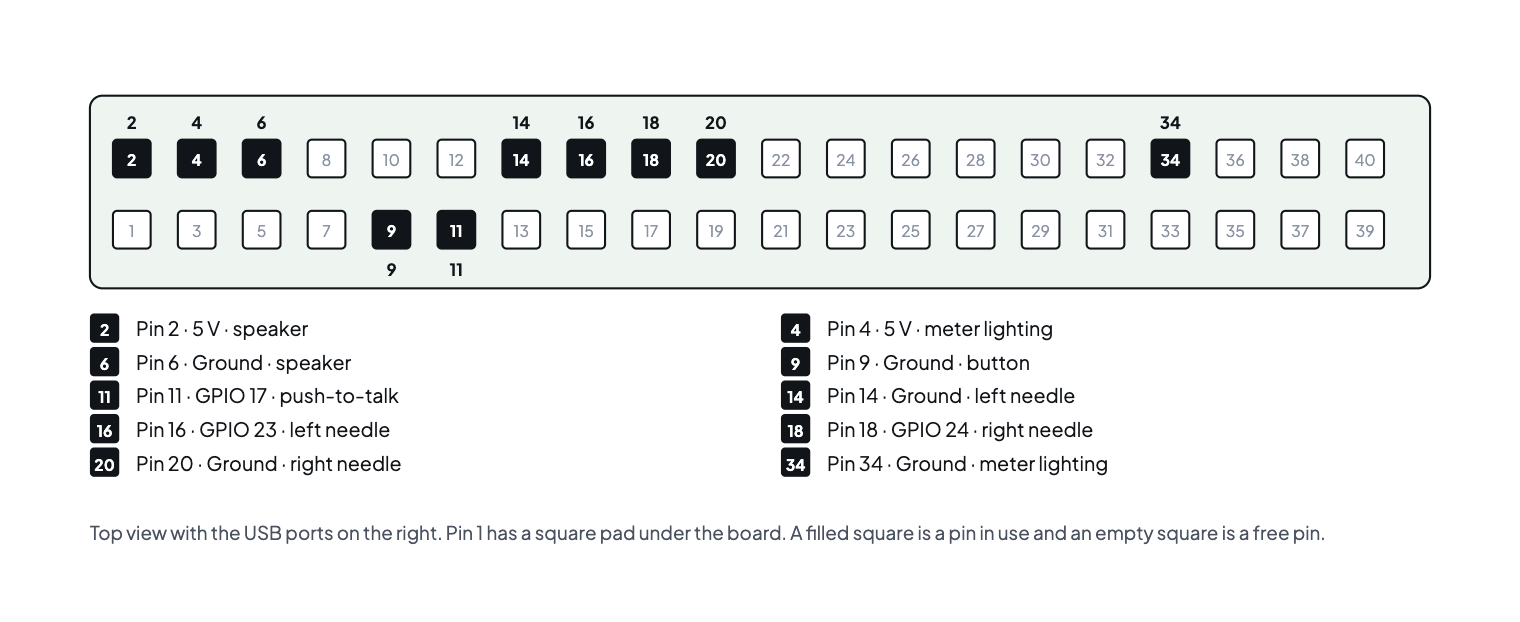
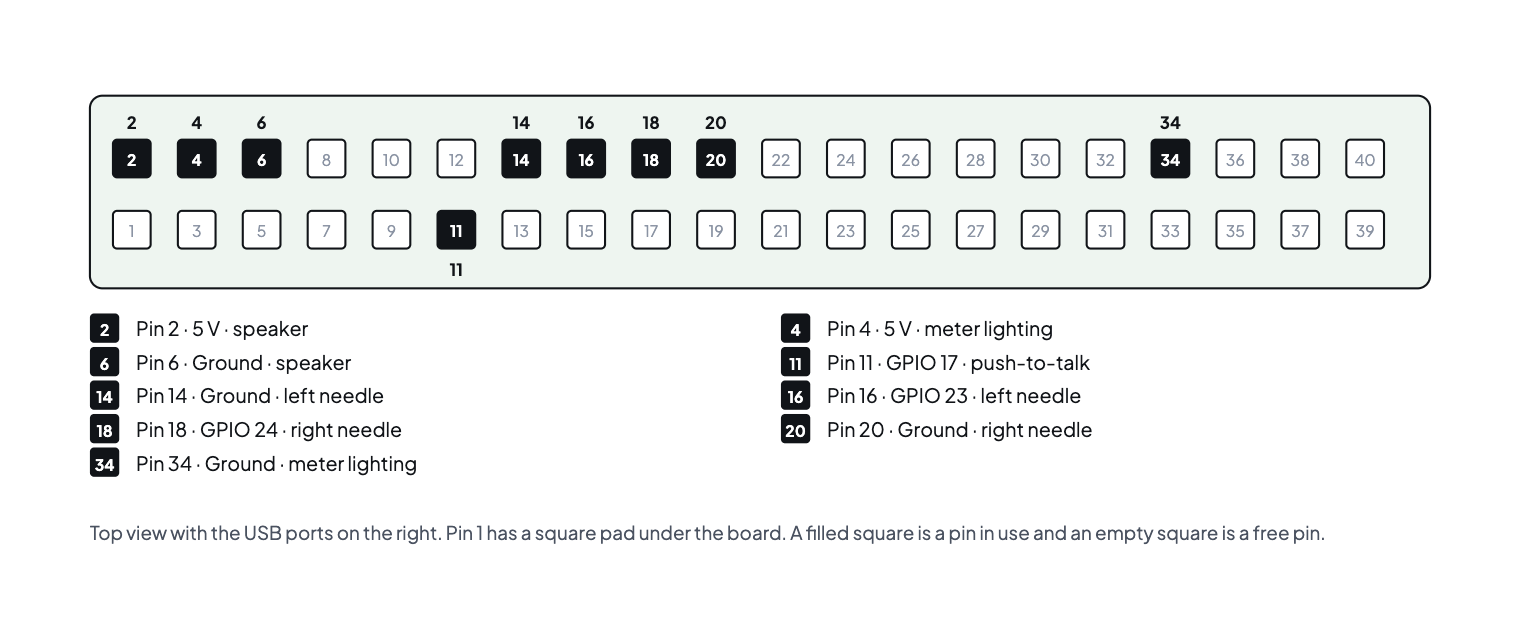
Simpler microphone wiring: one lever connector, no multimeter
Pins 1 and 2 of the socket go under two screws of A18. Pin 3 goes
through one lever connector to a jumper wire on Pi pin 11, and pin 4 is
cut short. The button takes its ground through the sound adapter, so
pin 9 is no longer used. The step card has five steps, and the builder
needs only scissors and the screwdriver that comes with A18.

diff --git a/docs/PARTS-BOM.md b/docs/PARTS-BOM.md
@@ -149,7 +149,7 @@ One sheet for each part, in the order of the list.
 
 | | |
 |---|---|
-| <img src="images/parts/a16-microphone-socket.jpg" width="200" alt="GX16 4-pin socket with its wires attached"> | The socket on the face that the microphone A15 plugs into. It comes with four wires already attached at its back, so nothing is soldered. The wires go to the plug A18 and, through the lever connectors A22, to the Pi.<br><br>**Quantity:** ×1<br>**In version 1.0:** planned<br>**Reference:** GX16, 4 Pin Male-Open, on Amazon B0CWF1H262. I have not ordered it yet.<br>**Connects:** Its wire from pin 2 goes under a screw of A18, direct. Its wires from pins 1 and 3 each go into a lever connector A22, which joins them to A19 wires for pins 9 and 11 of the Pi. Pin 1 also goes on to A18 through a short wire. Its pin 4 wire goes alone into a third A22.<br>**Pins:** 4, male, 16 mm round body with a nut<br>**Wires:** 4 wires of 20 AWG, 20 cm, attached and sealed at the back<br>**Fit:** Sellers list the GX16 4-pin as the CB microphone connector. I have not tried it with the BC645 yet: plug the microphone in before you mount the socket.<br>**Colours:** The listing does not say which colour goes to which pin. Find out with a multimeter set to continuity, one probe on a pin and the other on each wire.<br>**Hole:** 16 mm. The face has a 16.2 mm hole for it. |
+| <img src="images/parts/a16-microphone-socket.jpg" width="200" alt="GX16 4-pin socket with its wires attached"> | The socket on the face that the microphone A15 plugs into. It comes with four wires already attached at its back, so nothing is soldered. Pins 1 and 2 go under the screws of the plug A18. Pin 3 goes to the Pi through a lever connector A22. Pin 4 is not used.<br><br>**Quantity:** ×1<br>**In version 1.0:** planned<br>**Reference:** GX16, 4 Pin Male-Open, on Amazon B0CWF1H262. I have not ordered it yet.<br>**Connects:** Pin 1 wire: under screw G of A18, direct. Pin 2 wire: under screw M of A18, direct. Pin 3 wire: into a lever connector A22, then an A19 wire to pin 11 of the Pi. Pin 4 wire: cut short, not used.<br>**Pins:** 4, male, 16 mm round body with a nut<br>**Wires:** 4 wires of 20 AWG, 20 cm, attached and sealed at the back<br>**Fit:** Sellers list the GX16 4-pin as the CB microphone connector. I have not tried it with the BC645 yet: plug the microphone in before you mount the socket.<br>**Colours:** The listing does not say which colour goes to which pin. I check it on my socket when it arrives and write it here.<br>**Hole:** 16 mm. The face has a 16.2 mm hole for it. |
 
 ### <a id="a17"></a>A17. USB sound adapter with a microphone input
 
@@ -161,13 +161,13 @@ One sheet for each part, in the order of the list.
 
 | | |
 |---|---|
-| <img src="images/parts/a18-trrs-plug.jpg" width="200" alt="3.5 mm TRRS plug with screw terminals"> | A 3.5 mm plug whose four contacts end in screw terminals. The microphone's two audio wires, from the socket A16, are screwed in here, and the plug goes into the jack of the sound adapter A17. No soldering at this end.<br><br>**Quantity:** ×1<br>**In version 1.0:** planned<br>**Reference:** Amazon B08QFHHJ3Z. It comes in a pack of 2: **the radio uses 1**.<br>**Connects:** Plugs into the jack of A17, direct. The pin 2 wire of A16 and a short wire from the pin 1 lever connector go under its screws.<br>**Plug:** 3.5 mm male, 4 poles<br>**Terminals:** 4 screw terminals<br>**Length:** 32 cm |
+| <img src="images/parts/a18-trrs-plug.jpg" width="200" alt="3.5 mm TRRS plug with screw terminals"> | A 3.5 mm plug whose four contacts end in screw terminals. The microphone's two audio wires, from the socket A16, are screwed in here, and the plug goes into the jack of the sound adapter A17. No soldering at this end.<br><br>**Quantity:** ×1<br>**In version 1.0:** planned<br>**Reference:** Amazon B08QFHHJ3Z. It comes in a pack of 2: **the radio uses 1**.<br>**Connects:** Plugs into the jack of A17, direct. The pin 1 wire of A16 goes under its screw G and the pin 2 wire under its screw M.<br>**Plug:** 3.5 mm male, 4 poles<br>**Terminals:** 4 screw terminals<br>**Length:** 32 cm |
 
 ### <a id="a19"></a>A19. Female-to-female jumper wires, 30 cm
 
 | | |
 |---|---|
-| <img src="images/parts/a19-jumper-wires.jpg" width="200" alt="Female-to-female jumper wires, 30 cm"> | Join the Pi's header to the speaker's pins, to the needles and to the push-to-talk wires. A socket at each end slides onto a pin, so nothing is clipped.<br><br>**Quantity:** ×1 strip of 20<br>**In version 1.0:** wired<br>**Reference:** Adafruit 1949. I have not ordered it yet.<br>**Connects:** 11 of the 20: two for the speaker, three for each needle, two for the push-to-talk button, and one cut short from the pin 1 lever connector to A18.<br>**Ends:** Female at both ends, spaced 2.54 mm<br>**Length:** 30 cm<br>**Wire:** 28 AWG, in a ribbon of 20 that peels apart<br>**Maker's page:** https://www.adafruit.com/product/1949 |
+| <img src="images/parts/a19-jumper-wires.jpg" width="200" alt="Female-to-female jumper wires, 30 cm"> | Join the Pi's header to the speaker's pins, to the needles and to the push-to-talk wires. A socket at each end slides onto a pin, so nothing is clipped.<br><br>**Quantity:** ×1 strip of 20<br>**In version 1.0:** wired<br>**Reference:** Adafruit 1949. I have not ordered it yet.<br>**Connects:** 9 of the 20: two for the speaker, three for each needle, and one for the push-to-talk button.<br>**Ends:** Female at both ends, spaced 2.54 mm<br>**Length:** 30 cm<br>**Wire:** 28 AWG, in a ribbon of 20 that peels apart<br>**Maker's page:** https://www.adafruit.com/product/1949 |
 
 ### <a id="a20"></a>A20. USB-C panel socket on a 30 cm cable
 
@@ -185,12 +185,11 @@ One sheet for each part, in the order of the list.
 
 | | |
 |---|---|
-| <img src="images/parts/a22-lever-connectors.jpg" width="200" alt="Lever connectors for thin wire, 3 ways"> | Each lever opens a slot: push a stripped wire in and close the lever. Two of them join the wires of the socket A16 to A19 jumper wires, whose other end slides onto a pin of the Pi. The third one covers the end of the unused wire, so nothing needs tape.<br><br>**Quantity:** ×1 pack of 50<br>**In version 1.0:** planned<br>**Reference:** XHF2018 3-way lever connectors, Amazon B07H76HDBL, a pack of 50: **the radio uses 3**. I have not ordered them yet.<br>**Connects:** The first joins the pin 1 wire of A16 to an A19 wire for Pi pin 9 and to a short wire for A18. The second joins the pin 3 wire to an A19 wire for Pi pin 11. The third holds the unused pin 4 wire alone.<br>**Wire:** 0.08 to 2.5 mm², which is 28 to 12 AWG. Wago 221 connectors start at 24 AWG and do not hold the thin A19 wires.<br>**Ways:** 3 slots, joined inside |
+| <img src="images/parts/a22-lever-connectors.jpg" width="200" alt="Lever connectors for thin wire, 3 ways"> | Each lever opens a slot: push a stripped wire in and close the lever. The radio needs one: it joins the pin 3 wire of the socket A16 to an A19 jumper wire, whose other end slides onto pin 11 of the Pi.<br><br>**Quantity:** ×1 pack of 50<br>**In version 1.0:** planned<br>**Reference:** XHF2018 3-way lever connectors, Amazon B07H76HDBL, a pack of 50: **the radio uses 1**. I have not ordered them yet.<br>**Connects:** Joins the pin 3 wire of A16 to an A19 wire whose socket end goes on pin 11 of the Pi.<br>**Wire:** 0.08 to 2.5 mm², which is 28 to 12 AWG. Wago 221 connectors start at 24 AWG and do not hold the thin A19 wires.<br>**Ways:** 3 slots, joined inside |
 
 ## Tools
 
-Nothing is soldered. You need a wire stripper or small scissors, a multimeter with a continuity mode (the one that
-beeps), and a small screwdriver. [WIRING.md](WIRING.md#the-microphone-and-its-push-to-talk-button) shows the
+Nothing is soldered and nothing is taped. You need small scissors and a small screwdriver. A18 comes with one. [WIRING.md](WIRING.md#the-microphone-and-its-push-to-talk-button) shows the
 microphone's wiring step by step.
 
 ## Where I bought them, in Canada

diff --git a/docs/WIRING.md b/docs/WIRING.md
@@ -102,13 +102,13 @@ The silver box in the corner is the Wi-Fi shield. Nothing goes on it.
 The numbers follow the physical numbering of the header. The drawing looks at the Pi from above, with its USB ports
 on the right.
 
-![The ten pins the radio uses on the Pi's 40-pin header](images/wiring/pins.png)
+![The nine pins the radio uses on the Pi's 40-pin header](images/wiring/pins.png)
 
 | Pins | Use | In version 1.0 |
 |---|---|---|
 | 2 (5 V) and 6 (ground) | The speaker's power | Wired |
 | 4 (5 V) and 34 (ground) | The meters' lamps, through the USB-A socket on wires and the 5 V to 12 V cable | Planned |
-| 11 (GPIO 17) and 9 (ground) | The microphone's push-to-talk button | Planned |
+| 11 (GPIO 17) | The microphone's push-to-talk button. Its ground comes through the sound adapter. | Planned |
 | 16 (GPIO 23) and 14 (ground) | The SIGNAL needle, the left meter | Planned |
 | 18 (GPIO 24) and 20 (ground) | The AUDIO needle, the right meter | Planned |
 
@@ -135,18 +135,22 @@ wire holds on the meter's terminals. If they are screws, cut one end of the wire
 ### The microphone and its push-to-talk button
 
 The microphone (A15) keeps its 4-pin plug and plugs into a GX16 socket on the face (A16). The socket comes with its four
-wires attached at the back, so nothing is soldered. The sound wires go under the screws of the TRRS plug (A18), which
-goes into the USB sound adapter (A17). The push-to-talk wires go into two lever connectors (A22), which join them to
-jumper wires for pins 9 and 11 of the Pi.
+wires attached at the back, so nothing is soldered. Pins 1 and 2 go under two screws of the TRRS plug (A18), which goes
+into the USB sound adapter (A17). Pin 3, the push-to-talk button, goes into a lever connector (A22), which joins it to a
+jumper wire for pin 11 of the Pi. Pin 4 is not used.
+
+Pin 1 is the ground and needs one wire only. The sound adapter already joins A18's screw G to the Pi's ground through
+its USB cable, so the button reaches the Pi's ground that way.
 
 ![The microphone's four pins and where each one goes](images/wiring/microphone.png)
 
 The four pins follow the usual wiring of Cobra and Uniden microphones: pin 1 is the ground and the shield, pin 2 the
 microphone's signal, pin 3 transmit and pin 4 receive. I read that wiring on a reference page and have not checked it
-on my own microphone. Before you connect anything, find which wire colour goes to which pin with a multimeter set to
-continuity, and plug the microphone into the socket once to check that it fits.
+on my own microphone. The socket's listing does not say which wire colour goes to which pin. I check both on my build
+when the socket arrives and write the colours in the parts list. Until then, plug the microphone into the socket once
+before you mount it, to check that it fits.
 
-The same wiring, step by step. W1, W2 and W3 are three wires taken from the A19 strip.
+The same wiring, step by step.
 
 ![The microphone's wiring in eight steps, from finding each wire's pin to plugging the sound adapter into the Pi](images/wiring/microphone-steps.png)
 
@@ -189,8 +193,8 @@ The two displays sit end to end behind the window, with their ribbons pointing o
 | The Pi, a USB-A port | A Qualia board, then the right display | A USB-A to USB-C cable (A7), then the ribbon |
 | The Pi, pins 16 and 14 | The left meter, + and - terminals | Jumper wires, with a potentiometer on the + terminal |
 | The Pi, pins 18 and 20 | The right meter, + and - terminals | Jumper wires, with a potentiometer on the + terminal |
-| The microphone socket, pin 1 | The TRRS plug's second ring, and the Pi's pin 9 | Its wire into a lever connector (A22), then a short wire to A18 and an A19 wire to the Pi |
-| The microphone socket, pin 2 | The TRRS plug's sleeve | Its wire, under a screw of A18 |
+| The microphone socket, pin 1 | The TRRS plug's second ring | Its wire, under screw G of A18 |
+| The microphone socket, pin 2 | The TRRS plug's sleeve | Its wire, under screw M of A18 |
 | The microphone socket, pin 3 | The Pi's pin 11 | Its wire into a lever connector (A22), then an A19 wire |
 | The Pi's 3.5 mm jack | The speaker | The audio cable (A14) |
 | The Pi, pins 2 and 6 | The speaker, 5 V and ground | Jumper wires (A19) |

diff --git a/CHANGELOG.md b/CHANGELOG.md
@@ -11,8 +11,8 @@ These changes are in the guides only. The programs are those of 1.0.0.
   switch cable that is the master switch (A21). The USB-C cable to a computer is no longer in the list.
 - The microphone socket for the face has a reference, the Workman C-4P (A16), and every part has a picture.
 - The wiring guide explains the power path, and the wiring drawings use the new labels.
-- Nothing needs soldering. The microphone socket A16 is now a GX16 socket sold with its wires attached, and two lever
-  connectors (A22) join its push-to-talk wires to jumper wires.
+- Nothing needs soldering. The microphone socket A16 is now a GX16 socket sold with its wires attached, and one lever
+  connector (A22) joins its push-to-talk wire to a jumper wire. Nothing needs tape or a multimeter.
 - The parts list is now `docs/PARTS-BOM.md`. It ends with the Canadian stores where I bought each part, and the master
   switch A21 is now one sold in Canada.
 - The wiring drawings show a picture of every part, the Pi included. The speaker and the meters' lamps have a drawing
